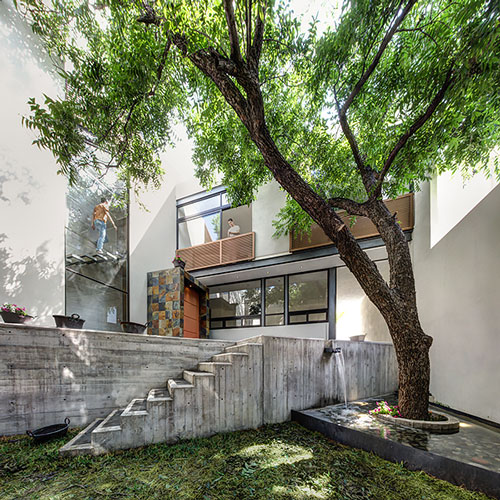
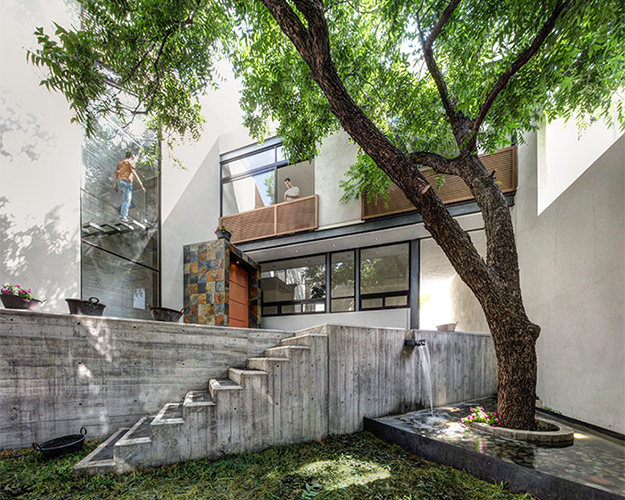
1
1

diff --git a/new.html b/new.html
@@ -271,7 +271,7 @@ isNaN(b)?!0:a>b};this._resetAlt=function(a,b){var d=a.getAttribute("alt"),c=d&&0
 
 <span class="thumb bw">
   <a href="./newInside.html">
-  <img data-load="false" data-src="./new_files/yannaThumbnail.jpg" data-image-dimensions="500x500" alt="Morgan Phillips Photography-0812.jpg"></a>
+  <img data-load="false" data-src="./new_files/yannaThumbnail.jpg" data-image-dimensions="625x500" alt="Morgan Phillips Photography-0812.jpg"></a>
 </span>
 
 <span class="thumb bw">
